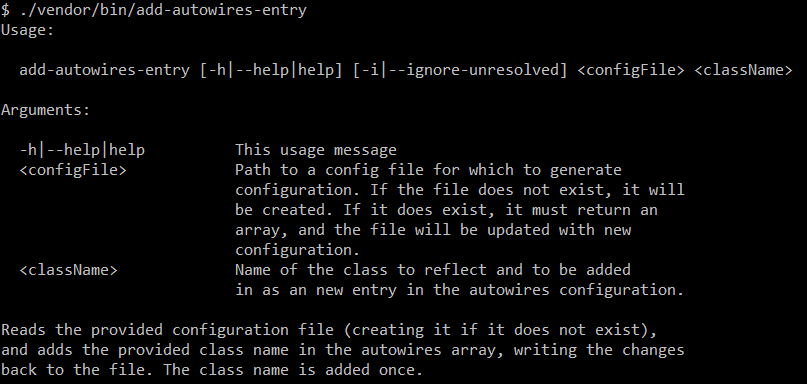
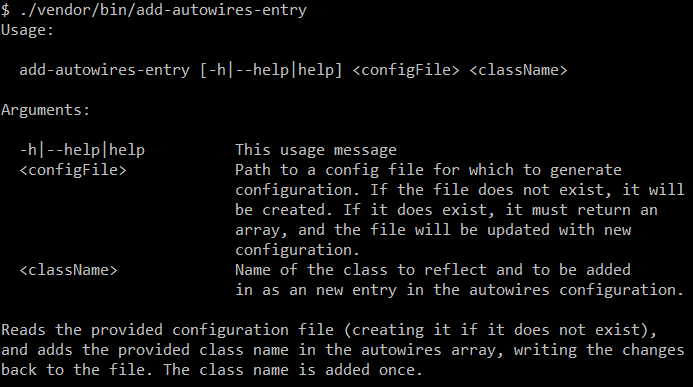
Add documentation for the cli command #17

diff --git a/src/Tool/AutowiresConfigDumperCommand.php b/src/Tool/AutowiresConfigDumperCommand.php
@@ -16,7 +16,7 @@ class AutowiresConfigDumperCommand
     const HELP_TEMPLATE = <<< EOH
 <info>Usage:</info>
 
-  %s [-h|--help|help] [-i|--ignore-unresolved] <configFile> <className>
+  %s [-h|--help|help] <configFile> <className>
 
 <info>Arguments:</info>
 
